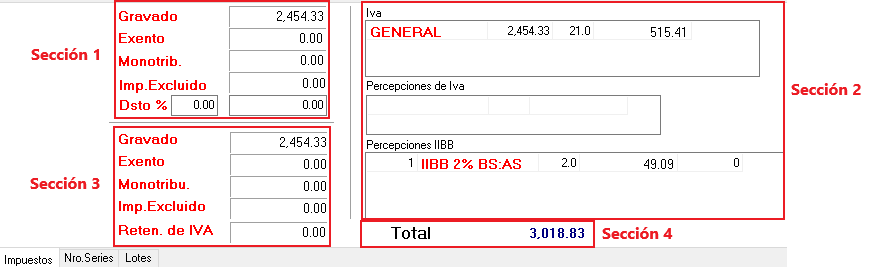
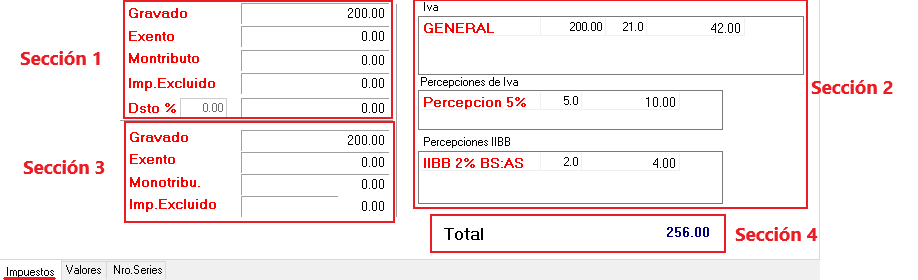
Cambios 02/01
-Agregada sección de Cuenta Corriente a Personal
-Completada sección de Formularios de Comprobantes
-Agregados mas detalles a la sección Comprobantes
-Agregada sección Pedidos de Clientes

Changed region(s): [[0.0, 0.0, 0.9774, 1.0]]

diff --git a/index.html b/index.html
@@ -56,7 +56,7 @@
           <!-- Logo -->
           <a class="logo ml-md-3" href="index.html" title="Larsoft Logo"> <img src="assets/images/logo-larsoft.png"
               alt="" /> </a>
-          <span class="text-2 ml-2 texto-indice">(En Prod.)</span>
+          <span class="text-2 ml-2 texto-indice">v1.0</span>
           <!-- Logo End -->
 
           <!-- Navbar Toggler -->
@@ -81,7 +81,7 @@
                 <li><a class="dropdown-item" href="#">Something Else Here</a></li>
               </ul>
             </li>-->
-              <li><a target="_blank" href="#"><span class="texto-indice">Soporte Técnico</span> </a></li>
+              <li><a href="#man_soporte_tecnico"><span class="texto-indice">Soporte Técnico</span> </a></li>
             </ul>
           </div>
           <ul class="social-icons social-icons-sm ml-lg-2 mr-2">
@@ -107,8 +107,8 @@
             <ul class="nav flex-column text-2">
               <li class="nav-item"><a class="nav-link text-2" href="#man_requerimientos">Requerimientos del Sistema</a>
               </li>
-              <li class="nav-item"><a class="nav-link text-2" href="#man_consideraciones_tec">Envíanos un Mail (próximamente)</a></li>
-              <li class="nav-item"><a class="nav-link text-2" href="#man_soporte_tec">Soporte Técnico (próximamente)</a></li>
+              <li class="nav-item"><a class="nav-link text-2" href="#man_mails">Envíanos un Mail (próximamente)</a></li>
+              <li class="nav-item"><a class="nav-link text-2" href="#man_soporte_tecnico">Soporte Técnico (próximamente)</a></li>
             </ul>
           </li>
 
@@ -391,6 +391,12 @@
             </ul>
           </li>
 
+          <!--SECCION PEDIDOS-->
+          <li class="nav-item"><a class="nav-link text-2" href="#man_pedidos">Pedidos de Clientes</a>
+            <ul class="nav flex-column text-2">
+            </ul>
+          </li>
+
           <!--SECCION PERSONAL-->
           <li class="nav-item"><a class="nav-link text-2" href="#man_personal">Personal</a>
             <ul class="nav flex-column text-2">
@@ -401,6 +407,12 @@
                 </ul>
               </li>
               <li class="nav-item"><a class="nav-link text-2" href="#man_abm_personal">Altas, Bajas y Modificaciones (ABM)</a></li>
+              <li class="nav-item"><a class="nav-link text-2" href="#man_personal_ctacte">Cuenta Corriente</a>
+                <ul class="nav flex-column">
+                  <li class="nav-item"><a class="nav-link text-2" href="#man_adelantos">Adelantos / Vales</a></li>
+                  <li class="nav-item"><a class="nav-link text-2" href="#man_ingresos">Ingresos</a></li>
+                </ul>
+              </li>
             </ul>
           </li>
 
@@ -490,7 +502,7 @@
 
           <!-- Consideraciones 
 		============================ -->
-          <section id="man_consideraciones_tec">
+          <section id="man_mails">
             <h2>Envíanos tus dudas</h2>
             <p class="lead">Para mantener este manual actualizado, es muy importante la retroalimentación de nuestros usuarios. Envíanos un mail con tu dudas,
                recomendaciones y/o inquietudes a la siguiente dirección e intentaremos contestar y actualizar el manual lo antes posible.
@@ -502,7 +514,7 @@
 
           <!-- Soporte
 		============================ -->
-          <section id="man_soporte_tec">
+          <section id="man_soporte_tecnico">
             <h2>Soporte Técnico</h2>
             <p>(PRÓXIMAMENTE)</p>
           </section>
@@ -825,16 +837,22 @@
                 Sucursal: Detalla la sucursal a la que pertenece el comprobante.
               </li>
               <li>
-                Tipo de numeración: Se especifica si es un comprobante de venta, compra o ambos y qué tipo de numeración
-                va a llevar.
+                Comprobante: Se especifica si es un comprobante de venta o compra.
+              </li>
+              <li>
+                Tipo de numeración: En esta sección se indica qué tipo de numeración va a llevar el comprobante. La primera opción es <b>Numeración Propia</b>,
+                 significa que tendremos que configurar una numeración en las secciones Letra, Prefijo y Número, y que este comprobante tendrá numeración independiente. 
+                 La segunda opción, <b>Toma Número de Otro Comprobante</b>, indica que este comprobante comparte su numeración con otro, que es seleccionado en la 
+                 sección Enumera desde. Por último, la última opción <b>Sin Numeración</b> simplemente indica que el comprobante no tendrá numeración.
               </li>
               <li>
                 Letra / Prefijo / Número: Estará habilitado sólo cuando se trate de un comprobante con Numeración
                 Propia. Se detalla como será la numeración.
               </li>
               <li>
-                Enumera desde: Sólo habilitado igual que en el caso anterior, se especifica desde qué número se empieza
-                a numerar.
+                Enumera desde: Sólo habilitado en el caso de que el comprobante tenga seleccionada la opción <b>Toma Número de Otro Comprobante</b> en la sección Tipo de
+                 Numeración. Utilizando el botón <img class="img-fluid border" src="assets/images/Boton Buscar.png" alt=""> podremos elegir a partir de qué comprobante 
+                 se heredará la numeración.
               </li>
               <li>
                 Archivo del reporte: Permite poner la ruta del reporte asociado a este comprobante. <br>
@@ -847,7 +865,7 @@
                 un comprobante de Cobro de Cheque, sólo se seleccionará Imprimir.
               </li>
               <li>
-                Copias a imprimir: En esta opción se puede especificar si se trata de un comprobante por duplicado,
+                Copias a imprimir: Indica cuantas copias del comprobante serán impresas. En esta opción se puede especificar si se trata de un comprobante por duplicado,
                 triplicado, etc.
               </li>
             </ul>
@@ -1036,19 +1054,63 @@
                 <!--  Primeros Pasos -> Formularios de Comprobantes
           ============================ -->
           <section id="man_formularios_comprobantes">
-            <h3>Formularios de Comprobantes (en producción)</h3>
+            <h3>Formularios de Comprobantes</h3>
 
-            <p>En esta sección se detallarán características generales que comparten la mayoría de los formularios del sistema que detallan transacciones, ya sean ventas,
-               compras o transferencias relacionadas a cuentas de caja o banco.
+            <p>En esta sección se detallan características generales que comparten la mayoría de los formularios del sistema que detallan transacciones, ya sean ventas,
+               compras o transferencias relacionadas a cuentas de caja o banco, y generan comprobantes.
             </p>
 
-            <p><img class="img-fluid border" src="assets/images/General/Ejemplo Formulario de Comprobante.png" alt=""></p>
+            <p><a class="popup-img" href="assets/images/General/Ejemplo Formulario de Comprobante.png">
+              <img class="img-fluid border" src="assets/images/General/Ejemplo Formulario de Comprobante.png" alt=""></a></p>
 
+            <ul>
+              <li><b>Encabezado</b>: en esta sección se detallan los datos referidos al comprobante, como la fecha, la sucursal donde será emitido y el tipo y número de comprobante. 
+                El resto de los detalles varía dependiendo del tipo de operación que se esté realizando, como por ejemplo el ente a quien está relacionado el comprobante 
+                (Cliente, Proveedor, etc).
+              </li>
+              <li><b>Tabla de Detalles</b>: aquí se ingresan los ítems que forman parte de la operación. Para que esta sección esté habilitada, debemos completar los
+                 datos de cabecera. Una vez que comencemos a agregar ítems a la tabla, los datos de cabecera ya no podrán ser modificados, por lo que si ocurrió algún error 
+                 en el ingreso de esos datos es recomendable Cancelar y volver a empezar. Para ingresar un ítem, hacemos click en la celda de Código y podremos presionar el botón 
+                 <img class="img-fluid border" src="assets/images/Boton Buscar.png">, que abrirá una ventana donde podremos buscar el ítem a ingresar. Opcionalmente, podemos ingresar 
+                el código del ítem si es que lo recordamos.</li>
+              <li><b>Pie del Formulario</b>: al igual que el encabezado, esta sección también difiere mucho dependiendo del formulario que se esté trabajando. Aquí se encuentran detalles
+               adicionales de la operación, como el total, los impuestos y más. Algunos formularios, como el que se muestra en la imagen de ejemplo, tienen incluso botones para
+               navegar entre distintas solapas donde se muestran o completan otros datos.</li>
+              <li><b>Barras de Herramientas y Estado</b>: finalmente, en la sección inferior de los formularios se encuentran la barra de herramientas y la barra de estado,
+               explicadas en la sección Aspectos Generales.</li>
+            </ul>
+            
             <p><u>Impuestos</u></p>
-            
-            <p><img class="img-fluid border" src="assets/images/General/Ejemplo Formulario de Comprobante - Impuestos.png" alt=""></p>
-            <p><img class="img-fluid border" src="assets/images/General/Ejemplo Formulario de Comprobante - Impuestos con Percepciones.png" alt=""></p>
-            
+            <p>Esta sección se encuentra en los formularios de venta y compra, donde se detallan los valores impositivos que forman parte de la operación. Pueden ser:</p>
+              <p><u>Sin percepciones</u></p>
+                <p>En el caso de que no sea una operación donde se realicen percepciones, la sección Impuestos se verá de la siguiente forma:</p>
+                <p><img class="img-fluid border" src="assets/images/General/Ejemplo Formulario de Comprobante - Impuestos.png" alt=""></p>
+                <p>
+                  El comportamiento de esta solapa depende de las alícuotas de IVA de los artículos y
+                   del tipo de inscripción del proveedor. En la sección 1 se detallan los totales sin impuestos:
+                   <ul>
+                    <li><b>Gravado</b>: Los totales de los artículos gravados van aquí.</li>
+                    <li><b>Exento</b>: Los totales de los artículos exentos van aquí.</li>
+                    <li><b>Monotributo</b>: Si el proveedor es monotributista, el total irá aquí. </li>
+                    <li><b>Importe Excluido</b>: Aquí irán los totales de aquellos artículos que fueron cargados con Impuestos Internos. </li>
+                    <li><b>Descuento</b>: En caso de que la operación tenga alguna clase de bonificación, puede detallarse aquí.
+                       Los nuevos valores serán calculados y mostrados en la sección 3. </li>
+                   </ul>
+                   La descripción y el tipo de gravamen de los artículos que condiciona en cual de estos totales aparecerá se configura en Artículos
+                    en la solapa de Costos/Impuestos (ver Stock -> Artículos). <br>
+                    En la sección 2 se detallan el cálculo de los impuestos. En el ejemplo los artículos ingresados tienen un IVA del 21%,
+                     por lo tanto se muestra la tabla IVA con la alícuota 21 y el porcentaje del impuesto. El cálculo del IVA es sobre el total con el descuento,
+                      mostrado en la sección 3. En la sección 4 se muestra el total de la operación, o sea, el total de la sección 3 más la sección 2. 
+                </p>
+              <p><u>Con percepciones</u></p>
+                <p>Si es posible que se realicen percepciones en la operación, la sección Impuestos se verá así:</p>
+                <p><img class="img-fluid border" src="assets/images/General/Ejemplo Formulario de Comprobante - Impuestos con Percepciones.png" alt=""></p>
+                <p>
+                  En el ejemplo se detalla la sección Impuestos en una Factura de Compra en Cuenta Corriente. Como el proveedor fue declarado como Agente
+                   de Retención de IVA y de IIBB (ver Compras -> Proveedores), se detallan los porcentajes en las tablas Percepciones de IVA y Percepciones IIBB.
+                    El cálculo de los impuestos fue tomado a partir del total Gravado de la sección 3. Por lo tanto, la sección 4 muestra el total a pagar, conformado por
+                     el total de la sección 3 y los totales de impuestos de la sección 2.  
+                </p>       
 
           </section>
           <hr class="divider">
@@ -1332,7 +1394,7 @@
           <hr class="divider">
 
 
-          <!-- 
+          <!-- Atrículos
 		============================ -->
           <section id="man_articulos">
             <h3>Artículos</h3>
@@ -1421,7 +1483,7 @@
 
           <hr class="divider">
 
-          <!-- 
+          <!-- Operaciones de Stock
 		============================ -->
           <section id="man_opstock">
             <h3>Operaciones de Stock</h3>
@@ -1432,7 +1494,7 @@
           </section>
 
 
-          <!-- 
+          <!-- Operaciones de Stock -> Consulta
 		============================ -->
           <section id="man_stock_consulta">
             <h4>Consulta</h4>
@@ -1452,7 +1514,7 @@
           </section>
 
 
-          <!-- 
+          <!-- Operaciones de Stock -> Existencias
 		============================ -->
           <section id="man_stock_existencia">
             <h4>Existencias</h4>
@@ -1480,7 +1542,7 @@
           </section>
 
 
-          <!-- 
+          <!-- Operaciones de Stock -> Transferencias
 		============================ -->
           <section id="man_stock_transf">
             <h4>Transferencias</h4>
@@ -1514,7 +1576,7 @@
           </section>
 
 
-          <!-- 
+          <!-- Operaciones de Stock -> Ajustes
 		============================ -->
           <section id="man_stock_ajustes">
             <h4>Ajustes</h4>
@@ -1535,7 +1597,7 @@
 
           <hr class="divider">
 
-          <!-- 
+          <!-- Precios 
 		============================ -->
           <section id="man_precios">
             <h3>Precios</h3>
@@ -1549,7 +1611,7 @@
 
           <hr class="divider">
 
-          <!-- 
+          <!-- Precios -> Actualizacion de Precios General
 		============================ -->
           <section id="man_actprecios_gen">
             <h4>Actualización de Precios General</h4>
@@ -1578,7 +1640,7 @@
 
           <hr class="divider">
 
-          <!-- 
+          <!-- Precios -> Actualizacion de Precios Manual
 		============================ -->
           <section id="man_actprecios_man">
             <h4>Actualizacion de Precios Manual</h4>
@@ -4901,6 +4963,20 @@
     <hr class="divider">
 
 
+              <!-- Pedidos de Clientes
+		============================ -->
+    <section id="man_pedidos">
+      <h2>Pedidos de Clientes</h2>
+
+      <p class="lead">(PROXIMAMENTE)</p>
+
+      <p><a class="popup-img" href="assets/images/Pedidos/Solapa Pedidos.png"><img class="img-fluid border"
+            src="assets/images/Pedidos/Solapa Pedidos.png" alt=""></a></p>
+    </section>
+
+    <hr class="divider">
+
+
           <!-- Personal
 		============================ -->
           <section id="man_personal">
@@ -4977,7 +5053,75 @@
 
     <hr class="divider">
 
-          <!--
+          <!-- Personal -> Cuenta Corriente
+		============================ -->
+    <section id="man_personal_ctacte">
+      <h3>Cuenta Corriente de Personal</h3>
+
+      <p>Se encuentra en la sección Personal, botón Cta.Cte. de Personal.</p>
+      <p><img class="img-fluid border" src="assets/images/Personal/Boton Cta Cte Personal.png" alt=""></p>
+
+      <p>
+        Mediante esta opción se puede consultar la cuenta corriente de cada empleado. Para ello ingrese el empleado, el período correspondiente y presione Ver CC.
+      </p>
+
+      <p><a class="popup-img" href="assets/images/Personal/Cta Cte de Personal.png"><img class="img-fluid border"
+        src="assets/images/Personal/Cta Cte de Personal.png" alt=""></a></p>
+
+      <p>
+        Persionando el botón de <b>Listado</b> se abrirá una nueva ventana donde podremos obtener un listado que incluya todas las cuentas corrientes del personal. 
+        Seleccione un período y presione Ver. Haciendo click en el botón <b>+</b> en uno de los ítems se ampliará con mayor detalle sobre la cuenta corriente del empleado.
+      </p>
+      <p><a class="popup-img" href="assets/images/Personal/Lista Cta Cte Personal.png"><img class="img-fluid border"
+            src="assets/images/Personal/Lista Cta Cte Personal.png" alt=""></a></p>
+    </section>
+
+    <hr class="divider">
+
+          <!-- Personal -> Adelantos
+		============================ -->
+    <section id="man_adelantos">
+      <h3>Adelantos / Vales</h3>
+
+      <p>Se encuentra en la sección Personal, botón Adelantos Vales</p>
+      <p><img class="img-fluid border" src="assets/images/Personal/Boton Adelantos.png" alt=""></p>
+
+      <p>
+        Desde aquí se registran las entradas a la cuenta corriente que tienen que ver con adelantos, vales, sueldos y honorarios; 
+        es decir, toda aquella entrada donde intervenga un comprobante. Los comprobantes fueron ingresados en Comprobantes (ver Primeros Pasos). 
+      </p>
+
+      <p><a class="popup-img" href="assets/images/Personal/Adelantos.png"><img class="img-fluid border"
+        src="assets/images/Personal/Adelantos.png" alt=""></a></p>
+
+      <p>Presione Agregar, ingrese el tipo de comprobante, el detalle, empleado y motivo. Luego, ingrese los valores correspondientes como detallamos en Primeros Pasos -> Valores.
+        Finalmente, presione Confirma para guardar la operación. Puede presionar Imprimir para generar un reporte. </p>
+    </section>
+
+    <hr class="divider">
+
+              <!--
+		============================ -->
+    <section id="man_ingresos">
+      <h3>Ingresos</h3>
+
+      <p>Se encuentra en la sección Personal, botón Ingresos en Cta. de Personal</p>
+      <p><img class="img-fluid border" src="assets/images/Personal/Boton Ingresos.png" alt=""></p>
+
+      <p>
+        Mediante esta opción se pueden cargar otro tipo de ingresos que no llevan comprobante.
+        Presione Agregar, ingrese el empleado, el detalle del ingreso y el importe. Para control interno puede, también, llevar un número de comprobante.
+         Presione Confirma para guardar los cambios.        
+      </p>
+
+      <p><a class="popup-img" href="assets/images/Personal/Ingresos.png"><img class="img-fluid border"
+            src="assets/images/Personal/Ingresos.png" alt=""></a></p>
+      
+    </section>
+
+    <hr class="divider">
+
+              <!--
 		============================ -->
     <section id="man_">
       <h3></h3>
@@ -4994,7 +5138,7 @@
 
     <hr class="divider">
 
-          <!--
+              <!--
 		============================ -->
     <section id="man_">
       <h3></h3>
